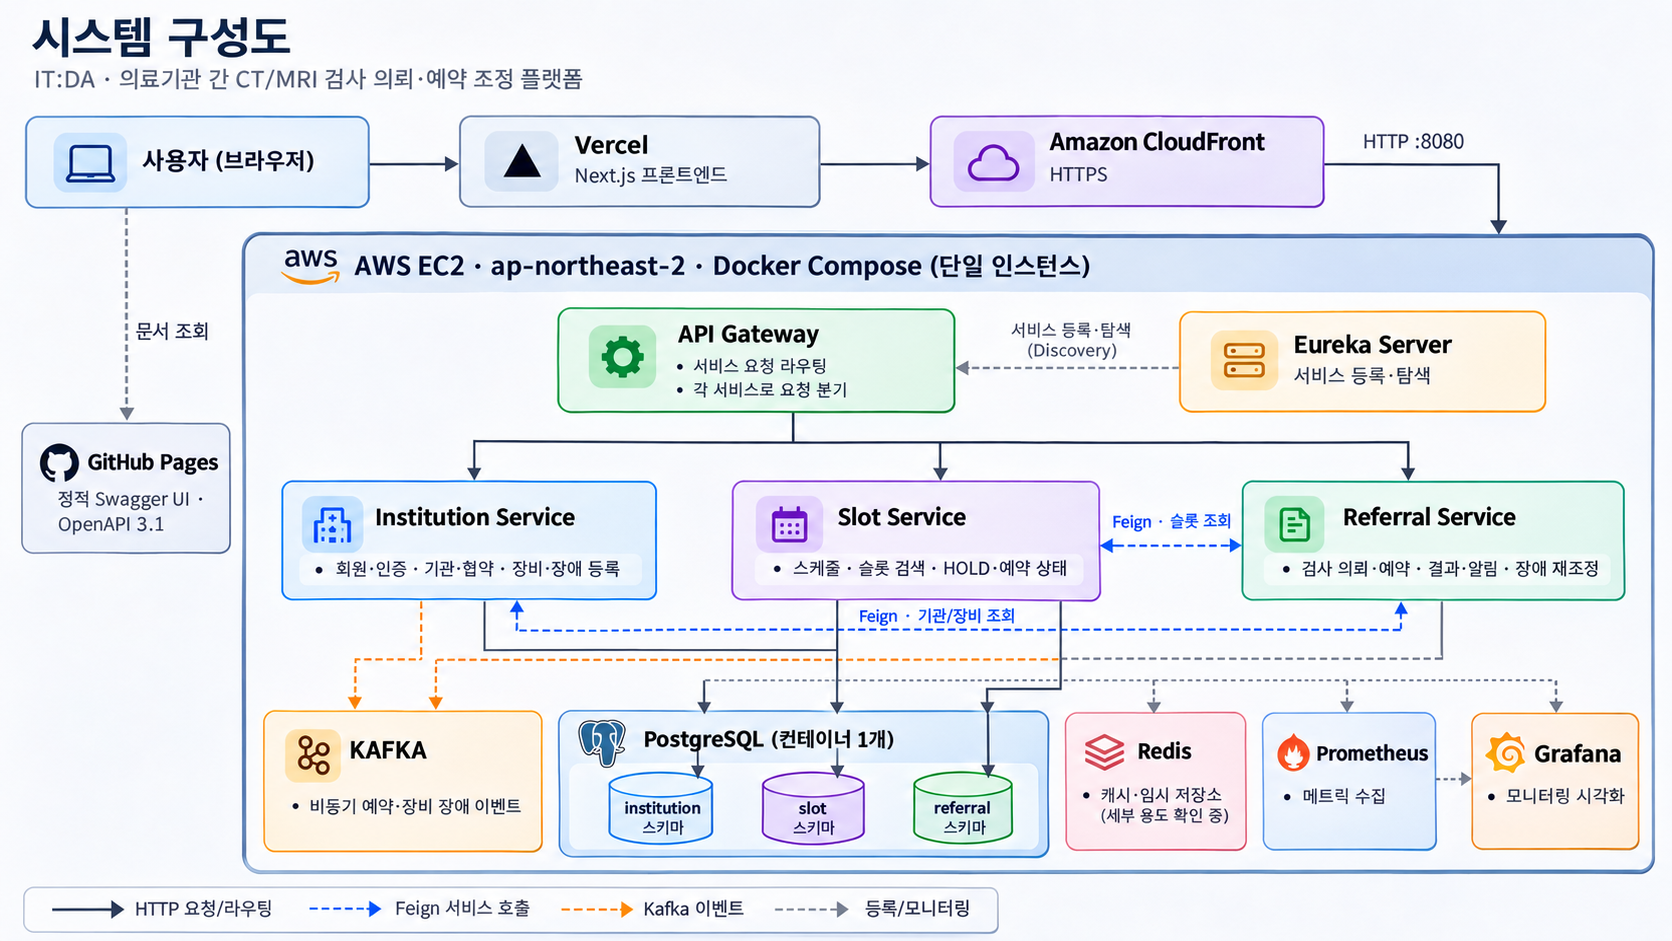
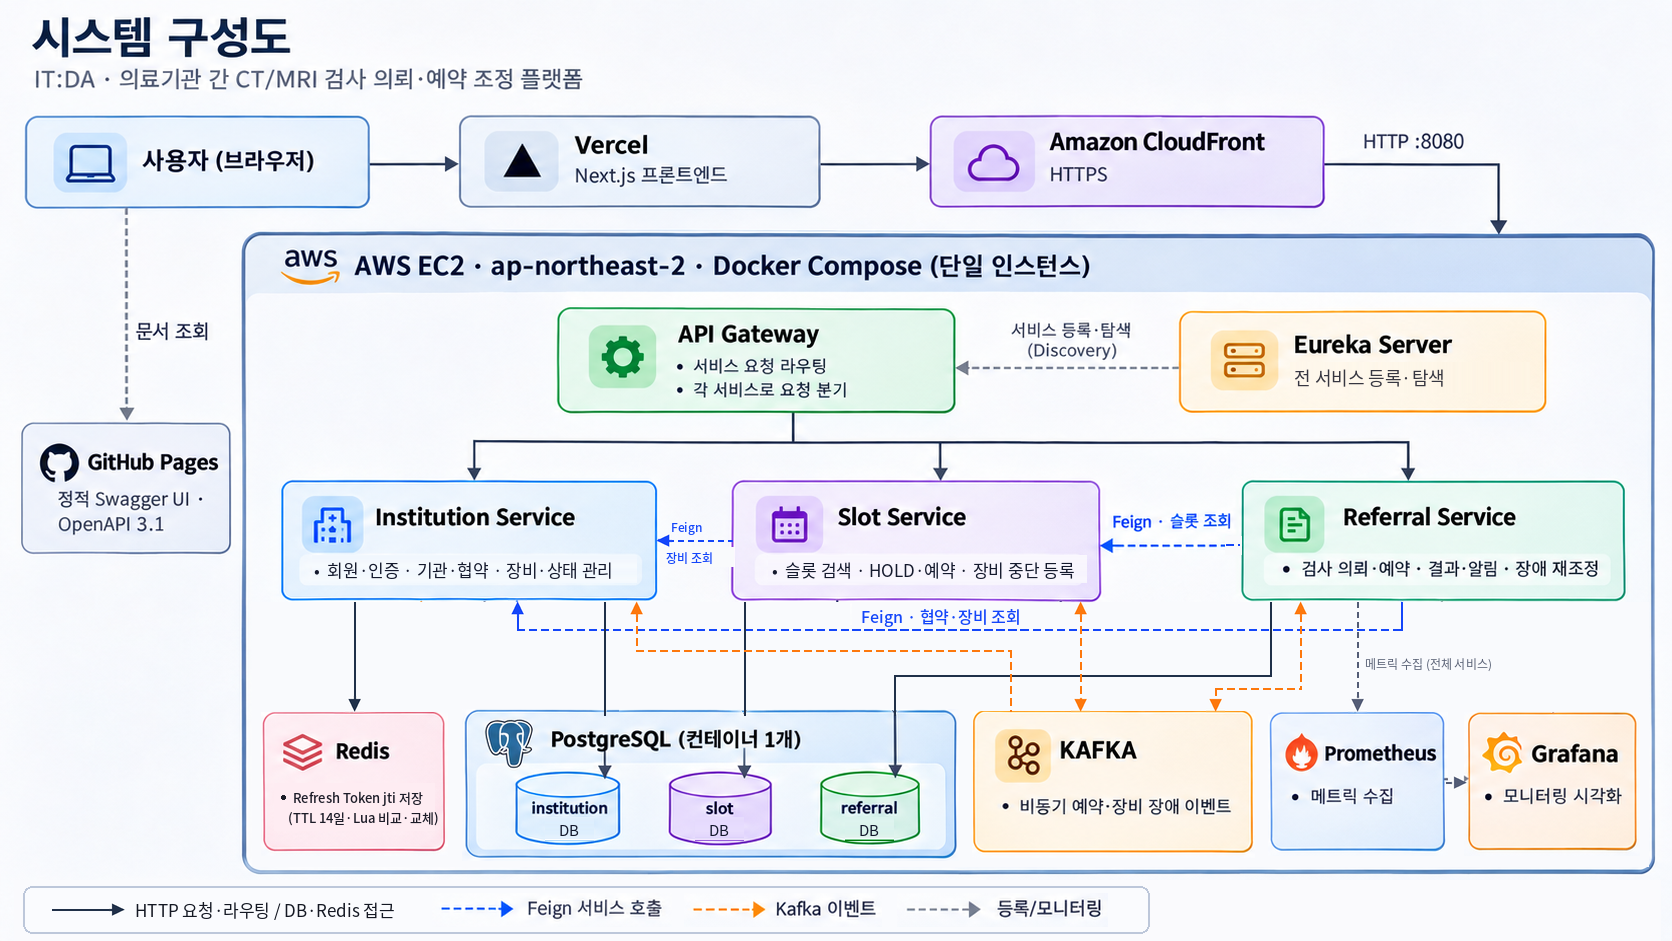
docs: README 설명 및 시스템 구성도 이미지 수정

diff --git a/README.md b/README.md
@@ -146,18 +146,18 @@ Kafka 이벤트 처리, Saga 보상 및 장애 복구 과정을 포함한 상세
 
 ## 3. 기술 스택
 
-| 구분       | 기술                                              |
-|------------|---------------------------------------------------|
-| Backend    | Java 21, Spring Boot 4.1.2, Spring Cloud 2025.1.4 |
-| MSA        | Spring Cloud Gateway, Netflix Eureka, OpenFeign   |
-| Database   | PostgreSQL 18, Redis 8.10.3                       |
-| Messaging  | Apache Kafka 4.4.0, Spring Kafka                  |
-| Security   | Spring Security, JWT (JJWT 0.12.7)                |
-| Monitoring | Prometheus 3.15.1, Grafana 13.2.4, Micrometer     |
-| Test       | JUnit, Testcontainers, k6                         |
-| Infra      | Docker, Docker Compose, AWS EC2                   |
-| CI/CD      | GitHub Actions                                    |
-| Frontend   | Next.js, React, Typescript, Vercel                |
+| 구분       | 기술                                                      |
+|------------|-----------------------------------------------------------|
+| Backend    | Java 21, Spring Boot 4.1.2, Spring Cloud 2025.1.4         |
+| MSA        | Spring Cloud Gateway, Netflix Eureka, OpenFeign           |
+| Database   | PostgreSQL 18, Redis 8.10.3                               |
+| Messaging  | Apache Kafka 4.4.0, Spring Kafka                          |
+| Security   | Spring Security, JWT (JJWT 0.12.7)                        |
+| Monitoring | Prometheus 3.15.1, Grafana 13.2.4, Micrometer             |
+| Test       | JUnit, Testcontainers, k6                                 |
+| Infra      | Docker, Docker Compose, AWS EC2                           |
+| CI/CD      | GitHub Actions, AWS IAM (OIDC), AWS Systems Manager (SSM) |
+| Frontend   | Next.js, React, Typescript, Vercel                        |
 
 ## 4. 시스템 아키텍처
 
@@ -352,8 +352,8 @@ curl http://localhost:8083/actuator/health
 
 #### Swagger API 문서
 
-- **제공 범위:** Institution, Slot, Referral Service의 REST API 명세
-- **OpenAPI:** `https://healo-world.github.io/ITDA`
+- Institution, Slot, Referral Service의 REST API 명세
+- **OpenAPI:** [API 명세서 바로가기](https://healo-world.github.io/ITDA)
 - **로컬 Swagger UI:** `http://localhost:8080/swagger-ui.html`
 - **활성화 방법:** `.env`에서 `SWAGGER_ENABLED=true` 설정
 
